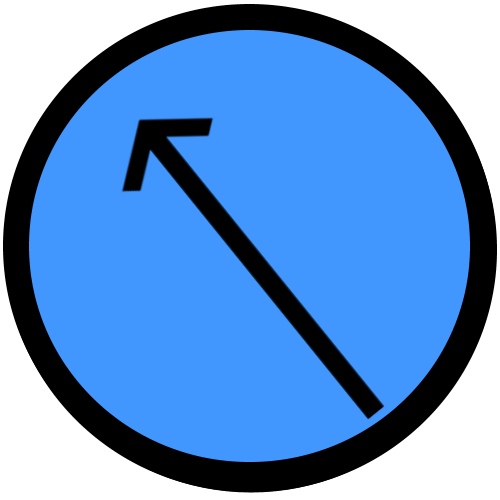
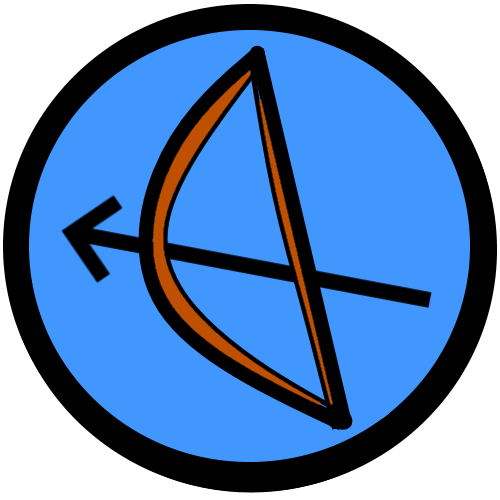
fix bug with player weapon's hud

Changed region(s): [[0.12, 0.09, 0.87, 0.87]]

diff --git a/CastleBridge/CastleBridge/Screen/Game/GameScreen.cs b/CastleBridge/CastleBridge/Screen/Game/GameScreen.cs
@@ -471,6 +471,7 @@ namespace CastleBridge {
 
             Player = new Player(characterName, team, name, x, y, 125, 175);
             Player.SetDirection(direction);
+
         }
 
         private void InitMap() {
@@ -483,7 +484,7 @@ namespace CastleBridge {
             UpdateHud();
         }
 
-        private void UpdateHud() {
+        public void UpdateHud() {
             HUD.SetPlayerAvatar(Player.CurrentCharacter.GetName(), Player.CurrentCharacter.GetTeamName());
 
             if (Player.CurrentCharacter is Archer) {

diff --git a/CastleBridge/CastleBridge/CastleBridge.cs b/CastleBridge/CastleBridge/CastleBridge.cs
@@ -69,6 +69,7 @@ namespace CastleBridge
         private void StartGame(CharacterName characterName, TeamName team, string name) {
 
             ((GameScreen)Screens[ScreenType.Game]).InitPlayer(characterName, team, name);
+            ((GameScreen)Screens[ScreenType.Game]).UpdateHud();
             CurrentScreen = ScreenType.Game;
         }
 
